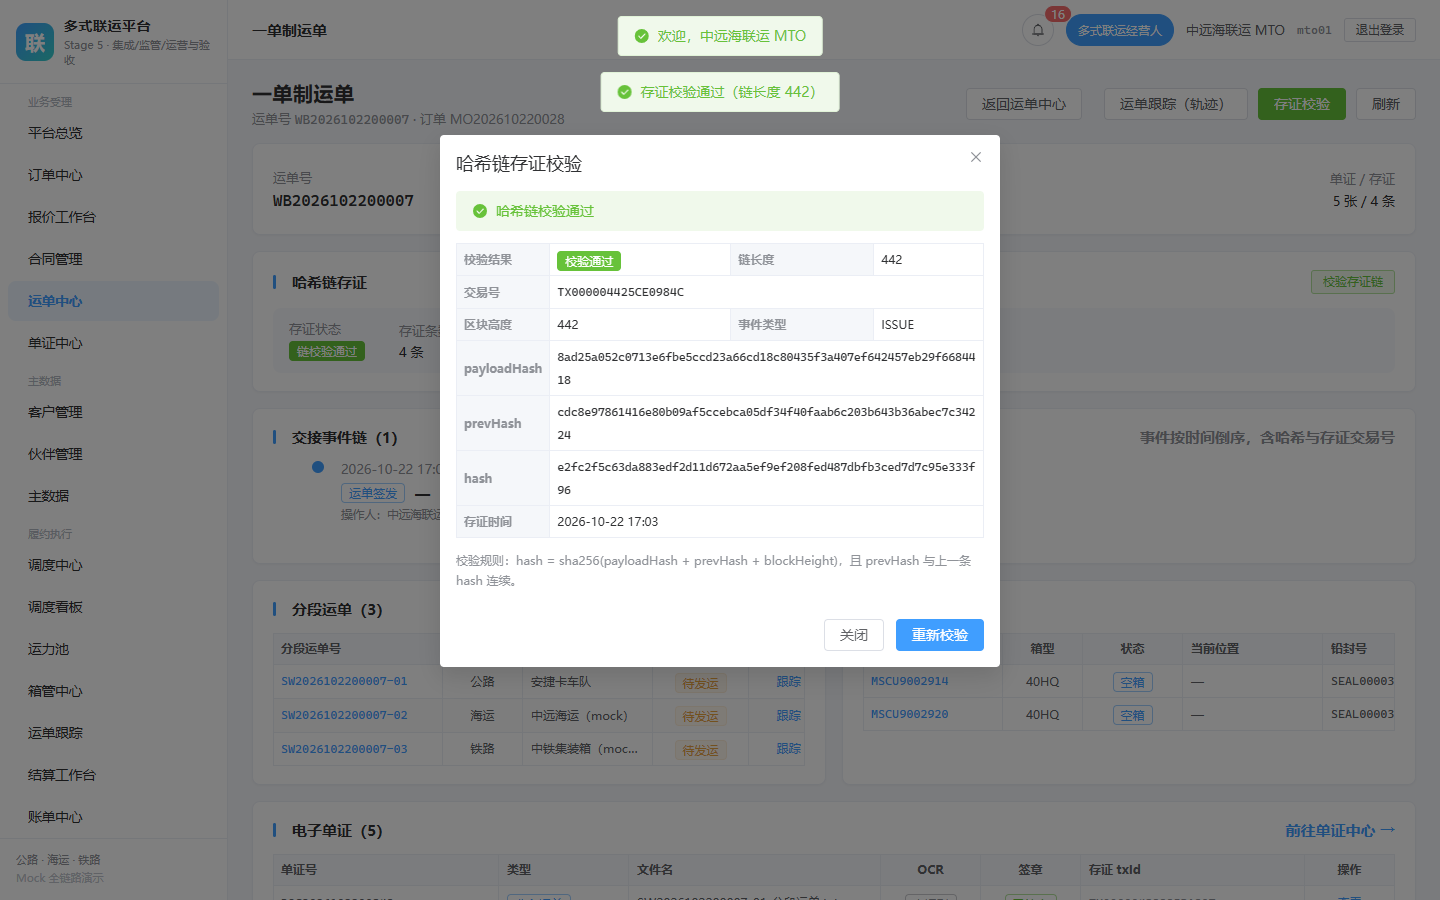
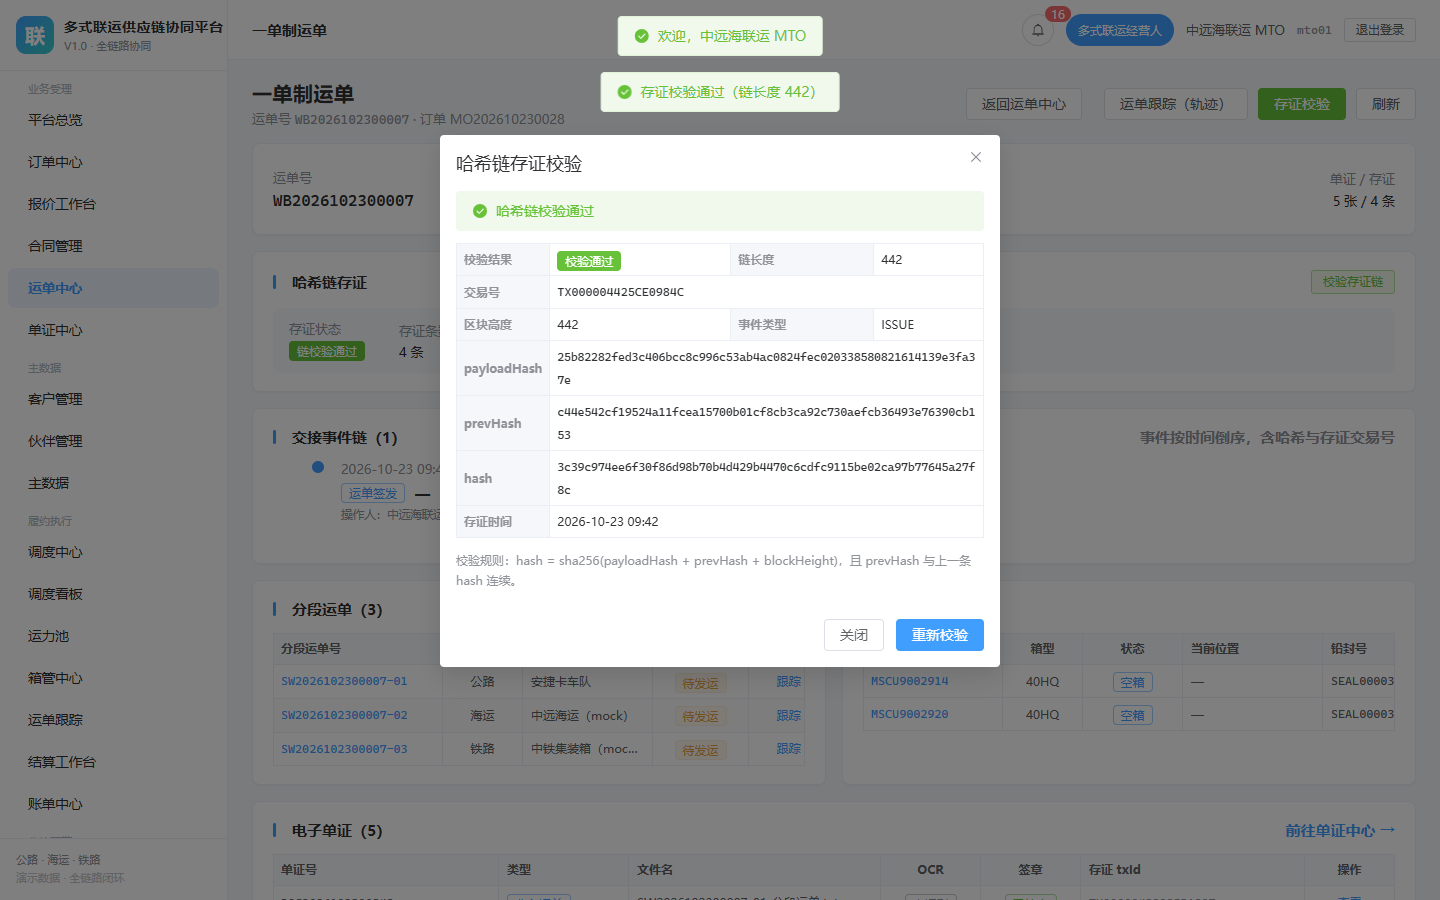
fix: 统一软著演示名称版本，修复箱号/税号数据质量并补充软著合规检查

diff --git a/web/src/layouts/MainLayout.vue b/web/src/layouts/MainLayout.vue
@@ -4,8 +4,8 @@
       <div class="brand">
         <div class="brand-logo">联</div>
         <div class="brand-text">
-          <div class="brand-name">多式联运平台</div>
-          <div class="brand-version">Stage 5 · 集成/监管/运营与验收</div>
+          <div class="brand-name">多式联运供应链协同平台</div>
+          <div class="brand-version">V1.0 · 全链路协同</div>
         </div>
       </div>
 
@@ -26,7 +26,7 @@
 
       <div class="aside-footer">
         <div class="aside-footer__line">公路 · 海运 · 铁路</div>
-        <div class="aside-footer__line subtle">Mock 全链路演示</div>
+        <div class="aside-footer__line subtle">演示数据 · 全链路闭环</div>
       </div>
     </el-aside>
 
@@ -123,7 +123,7 @@ const menuGroups = computed(() => {
 
 const unreadCount = computed(() => notifications.value.filter((item) => !isRead(item)).length);
 
-const pageTitle = computed(() => (typeof route.meta.title === 'string' ? route.meta.title : '多式联运平台'));
+const pageTitle = computed(() => (typeof route.meta.title === 'string' ? route.meta.title : '多式联运供应链协同平台'));
 
 const activeMenu = computed<string>(() => {
   const fullPath = route.fullPath;

diff --git a/web/src/views/LoginView.vue b/web/src/views/LoginView.vue
@@ -3,8 +3,8 @@
     <div class="login-panel">
       <section class="login-brand">
         <div class="login-brand__logo">联</div>
-        <h1 class="login-brand__title">多式联运供应链平台</h1>
-        <p class="login-brand__subtitle">Stage 2 · 询价 → 合同 → 一单制运单 → 箱管 → 签收 → 单证存证</p>
+        <h1 class="login-brand__title">多式联运供应链协同平台</h1>
+        <p class="login-brand__subtitle">V1.0 · 一单到底 · 全程可视 · 一次结算</p>
 
         <div class="demo-title">演示账号（密码统一 demo123，点击一键登录）</div>
         <div class="demo-list">

diff --git a/web/index.html b/web/index.html
@@ -3,7 +3,7 @@
   <head>
     <meta charset="UTF-8" />
     <meta name="viewport" content="width=device-width, initial-scale=1.0" />
-    <title>多式联运供应链平台 Demo</title>
+    <title>多式联运供应链协同平台 V1.0</title>
   </head>
   <body>
     <div id="app"></div>

diff --git a/docs/05-软著合规检查.md b/docs/05-软著合规检查.md
@@ -1,0 +1,201 @@
+# 软著适配检查报告（软著演示版）
+
+> 检查日期：2026-10-23
+> 项目定位：**软件著作权（软著）演示 + 登记材料准备**
+> 依据：中国版权保护中心《计算机软件著作权登记申请表填写说明》及《计算机软件著作权登记办法》
+> 检查对象：多式联运供应链协同平台 V1.0（59 表 / 12 角色 / 215 项 API 断言 / 38 阶段 E2E）
+
+---
+
+## 1. 结论（先看这里）
+
+| 维度 | 结论 |
+|---|---|
+| **代码与演示** | ✅ 达到“可运行、可演示、业务闭环基本完整”的软著 demo 水平 |
+| **Mock 数据专业性** | ✅ 已修复箱号/税号等硬伤；⚠ 仍有真实企业品牌与少量合成字段需处理 |
+| **软件名称/版本一致性** | ✅ 本轮已统一为「多式联运供应链协同平台 V1.0」（UI/登录/标题/package/截图） |
+| **软著登记材料** | ❌ **尚未达到可直接提交状态**：缺少 60 页源程序文档、正式用户操作手册（含截图）、申请表信息表与权属/发表状态确认 |
+| **能否直接申报** | ❌ 不能。补齐第 4 节材料后可提交，形式审查通过概率较高 |
+
+> 软著登记属于**形式审查**，审查重点是材料齐全、格式规范、名称版本一致、权属清晰，**不审查业务真实性、Mock 数据质量或功能深度**；本报告同时按用户“业务流程真实、Mock 数据专业”的额外要求做了业务/数据检查。
+
+---
+
+## 2. 软著制度核心要求（与本项目对应）
+
+依据中国版权保护中心《填表说明》：
+
+1. **软件名称**
+   - 申请材料中的软件全称应保持一致；
+   - 全称应简短明确、针对性强；简称与全称不得相同，无简称留空，不填“无”；
+   - 版本号建议 `V1.0` 或 `1.0`；**证书版本以申请表为准，提交材料页眉版本必须与申请表一致**。
+2. **软件鉴别材料（源程序）**
+   - 一般交存：源程序**连续前 30 页 + 连续后 30 页**；
+   - 整个程序不到 60 页的，提交整个源程序；
+   - 除特定情况外，**程序每页不少于 50 行**；
+   - 页眉需体现软件名称/版本号（与申请表一致）及页码。
+3. **文档鉴别材料**
+   - 提交任一种文档（用户手册/操作说明书/设计说明书）的**连续前 30 页 + 连续后 30 页**；
+   - 文档不到 60 页的提交整个文档；
+   - **文档每页不少于 30 行**（含截图页可适当调整，以受理要求为准）。
+4. **申请表信息**
+   - 开发完成日期、发表状态、开发方式、权利取得方式、权利范围；
+   - 硬件环境、软件环境、编程语言、**源程序量（行数）**；
+   - 开发目的、面向领域、主要功能、技术特点。
+5. **其他**
+   - 已发表软件需填写首次发表日期/地点；**公网仓库/公开演示可能构成“已发表”**，需如实选择或先转为私有；
+   - 合作/委托/任务开发需提交权属证明；申请材料需签章。
+
+参考：
+- [中国版权保护中心·填表说明](https://www.ccopyright.com/index.php?optionid=1081)
+- [计算机软件著作权登记办法（国家版权局）](https://www.ncac.gov.cn/xxfb/flfg/bmgz/202410/t20241015_869486.html)
+
+---
+
+## 3. 本项目对照检查结果
+
+### 3.1 名称与版本 ✅（本轮已整改）
+
+| 项目 | 当前值 |
+|---|---|
+| 软件全称（建议） | **多式联运供应链协同平台** |
+| 简称（可选） | 多式联运平台（如申请表填简称，材料需一致） |
+| 版本号 | **V1.0** |
+| UI 侧边栏 | 多式联运供应链协同平台 / V1.0 · 全链路协同 |
+| 登录页 | 多式联运供应链协同平台 / V1.0 · 一单到底 · 全程可视 · 一次结算 |
+| 浏览器标题 | 多式联运供应链协同平台 V1.0 |
+| package.json | version 1.0.0（内部依赖版本）；软著材料统一用 V1.0 |
+| 文档 | `docs/00~04` 已统一为多式联运供应链协同平台 V1.0 |
+
+> 注意：源程序文档/用户手册的**页眉**必须写“多式联运供应链协同平台 V1.0”，并与申请表完全一致。
+
+### 3.2 源程序材料 ❌ 未准备
+
+- 当前自有源码规模：**47,692 行 / 209 个文件**（`api/src`、`web/src`、`api/db`，含注释与空行；有效代码约 43,287 行）。
+- 按 50 行/页，源程序约 **950+ 页**；软著只需提交**前 30 页 + 后 30 页（共 60 页）**。
+- 当前缺少：
+  - 60 页源程序文档（页眉：软件名称+版本号+页码；等宽字体；连续代码）；
+  - 起始/结束代码范围界定（建议从 `api/src/app.ts` 起，至 `web/src/router/index.ts` 止，或按模块顺序）；
+  - 页眉、页码、每页 50 行的排版；
+  - 提交前排除 `.env`、`api/storage`、`node_modules`、`dist`、测试数据（仓库已忽略，但需确认材料中不出现）。
+
+### 3.3 文档材料 ❌ 未准备
+
+- 现有 `docs/01-演示脚本与验收.md` 是演示脚本，**不是正式用户操作手册**：
+  - 约 98 行，未嵌入截图，未按“每页 ≥30 行、页眉、页码”排版；
+  - 缺少软件安装/启动说明、账号说明、逐模块操作步骤、异常处理、界面截图（当前 8 张截图未插入文档）。
+- 软著需提交用户手册或设计说明书（二选一）；建议做**用户操作手册**，与演示路径一致，包含：
+  1. 封面（软件名称/版本/日期）+ 目录；
+  2. 运行环境与安装启动（2 条命令）；
+  3. 登录与 12 个角色说明；
+  4. 全链路操作步骤（下单→调度→运单→箱管→单证→签收→结算→对账/发票/支付→监管/运营）；
+  5. 每步界面截图与说明（使用 `docs/screenshots/` 8 张 + 登录/总览截图）；
+  6. 常见问题与数据重置。
+- 文档页眉同样需“多式联运供应链协同平台 V1.0”，每页 ≥30 行。
+
+### 3.4 Mock 数据专业性 ✅ 已修复主要硬伤
+
+本轮检查发现并修复：
+
+| 问题 | 修复前 | 修复后 |
+|---|---|---|
+| 集装箱号长度/校验位 | **26 个箱号全部为 12 位**（如 `MSCU70000012`），不符合 ISO 6346（应为 11 位） | 改为 6 位序列号生成，**26 个箱号全部通过 ISO 6346 校验** |
+| 发票税号 | 10 张发票购方税号为空、销方税号为无效校验位 | 购方使用客户 GB 32100 税号、销方生成合法税号；**10 张发票全部通过 GB 32100 校验** |
+| 种子数据质量校验 | 无 | `api/db/init.mjs` 增加自动校验：非法箱号/税号直接报错，避免材料中出现假标准 |
+| 统一社会信用代码 | 12 家客户均为合法 GB 32100 | 已复核通过 |
+
+其他 Mock 标准（已具备）：
+- UN/LOCODE/铁路车站电报码、`HT/BJ/MO/WB/SW/DOC/BL/FP/PAY/DZ/JG/BX` 单据编码；
+- 95306 需求车 JT/T 1351 语义、港口 CODECO/COARRI、9% 增值税、电子发票、银行回执、CA 签章、监管回执。
+
+**仍需注意**：
+- 种子中使用了真实企业/机构名称（中远海运、中国银行、人保财险、上港集团、中铁、上海交通委等）。软著审查通常不核查 Mock 数据，但公开演示/材料存在**商标与主体混淆风险**，建议在申报材料与公开演示前替换为虚构但专业的企业名称（如“远洋联运”“联合商业银行”“安泰保险”），或取得授权。
+- 手机号 `139000000xx`、车牌 `沪A·D1200` 为合成演示数据，属于可接受的 Mock，但建议在手册中说明“数据均为演示数据”。
+
+### 3.5 申请表信息（待填，建议值）
+
+| 字段 | 建议填写 |
+|---|---|
+| 软件全称 | 多式联运供应链协同平台 |
+| 简称 | 多式联运平台（或留空） |
+| 版本号 | V1.0 |
+| 开发完成日期 | 2026-10-23（按实际固定日期调整） |
+| 发表状态 | **需决策**：公开 Gitea 仓库可能构成“已发表”；若申报“未发表”，建议先将仓库转为私有并停止公网演示 |
+| 开发方式 | 单独开发（如实际为合作/委托，需相应协议） |
+| 权利取得方式 | 原始取得 |
+| 权利范围 | 全部权利 |
+| 硬件环境 | x64 PC，8GB+ 内存，100GB+ 磁盘 |
+| 软件环境 | Windows 10/11、Node.js 24、MySQL 8、Edge/Chrome |
+| 编程语言 | TypeScript、JavaScript、SQL、HTML/CSS |
+| 源程序量 | 47,692 行（api/src + web/src + api/db；可按实际统计口径调整） |
+| 开发目的/领域 | 多式联运供应链协同、运输与结算管理 |
+| 主要功能 | 报价合同、订单、智能调度、一单制运单、箱管、单证存证、签收、结算/对账/发票/支付/保理、监控预警、集成/监管/运营 |
+| 技术特点 | 前后端分离、模块化单体、JWT/RBAC、哈希链存证、Mock 适配器、ECharts 可视化 |
+
+### 3.6 权属与原创 ⚠ 需申请人确认
+
+- 代码为项目自有实现，未提交 `node_modules`/第三方源码；Vue、Element Plus、ECharts、Express 等为第三方开源依赖（MIT/Apache 等），**不应计入自有源程序材料**。
+- 若开发过程使用 AI 辅助/外包/合作，请按实际权属准备说明或协议；软著申请须承诺独立开发/权属清晰。
+- 建议在仓库保留 `LICENSE`/权属声明（非软著强制，但利于材料一致性）。
+
+### 3.7 可演示性 ✅
+
+- 2 条命令：`npm run setup` + `npm run dev`；
+- 59 表全量种子、12 账号（密码 `demo123`）；
+- 最新回归：**build 零错误、215/215 API 断言、38 阶段 E2E 全绿**（本轮修复后重新执行）；
+- 8 张最终截图已按新名称/版本重新生成。
+
+---
+
+## 4. 达到“可提交软著”还缺什么（清单）
+
+| 序号 | 材料/事项 | 状态 | 说明 |
+|---|---|---|---|
+| 1 | 软件名称/版本统一 | ✅ 已完成 | UI/文档/截图统一为「多式联运供应链协同平台 V1.0」 |
+| 2 | 源程序文档（60 页，前/后各 30 页，每页 ≥50 行，页眉） | ❌ 待生成 | 可脚本导出；需确认起始/结束代码范围 |
+| 3 | 用户操作手册（含截图，页眉/页码，每页 ≥30 行） | ❌ 待编写 | 建议 30~60 页，覆盖安装、登录、全链路、FAQ |
+| 4 | 申请表信息表 | ⚠ 部分 | 第 3.5 节已给建议值，需申请人确认 |
+| 5 | 发表状态决策 | ❌ 待定 | 公开仓库/演示是否构成已发表；申报前建议转私有或如实申报 |
+| 6 | 真实品牌替换 | ⚠ 建议 | 中远海运/中国银行/人保财险等真实主体 |
+| 7 | 权属证明/签章 | ❌ 待申请人 | 身份证明、合作/委托协议（如适用） |
+| 8 | 演示视频（非 CPCC 强制） | ⚠ 可选 | 代理/内部评审常要求，可录 3~5 分钟全链路 |
+
+---
+
+## 5. 业务与架构层面的软著演示适配
+
+软著登记**不要求**业务闭环完整，但用户要求“业务流程尽量真实”，因此补充结论（详见 `docs/04-架构对照检查.md`）：
+
+- 核心闭环 `下单→报价→合同→调度→公铁水运输→签收→计费→对账→发票→支付/保理` 已打通；
+- **P0 演示缺口**：末端配送分段、快速下单的联运组合选择、放箱与发车前状态约束；
+- 对软著登记无直接阻碍；若演示话术强调“门到门”，建议先补末端配送，避免演示与材料描述不一致。
+
+---
+
+## 6. 建议执行顺序
+
+1. **本周（申报前）**
+   - 确认软件全称/版本/开发完成日期/发表状态；
+   - 生成 60 页源程序文档（页眉+50 行/页）；
+   - 编写用户操作手册（含截图，页眉+页码）；
+   - 确认权属与签章。
+2. **材料一致性检查**
+   - 申请表、源程序页眉、手册页眉、截图 UI 的软件名称/版本必须完全一致；
+   - 截图使用最新 8 张（已按 V1.0 重新生成）。
+3. **可选增强**
+   - 真实品牌替换为虚构企业；
+   - 补末端配送与联运组合选择后再录演示视频；
+   - 仓库转私有或明确“已发表”日期。
+
+---
+
+## 7. 最终判定
+
+| 判定项 | 结果 |
+|---|---|
+| 是否具备软著 demo 的代码/功能/数据基础 | ✅ 具备 |
+| 是否达到“可直接提交软著”的标准 | ❌ **尚未**（缺源程序文档、用户手册、申请表/权属/发表状态） |
+| 补材料后预计能否通过形式审查 | ✅ 大概率可以（名称版本一致、源码充足、文档齐全即可） |
+| 是否建议先修业务 P0 再申报 | 软著不强制；若用于对外演示/验收，建议先修末端配送与联运组合 |
+
+> 说明：软著审查为形式审查，以上材料要求以中国版权保护中心及受理窗口最新要求为准；本报告不构成法律意见。

diff --git a/README.md b/README.md
@@ -1,4 +1,4 @@
-# 多式联运供应链平台 Demo（v1.0.0）
+# 多式联运供应链协同平台（V1.0，软著演示版）
 
 单 Web 端多角色协同的多式联运演示平台：以 MTO 为核心，拉通货主、货代、公路/铁路/水路承运人、港站、结算、金融、保险、监管与平台运营，
 全链路覆盖「**询价 → 报价 → 合同 → 订单 → 智能调度 → 一单制运单 → 公铁水履约 → 箱管/单证/存证 → 签收 → 应收应付 → 对账/发票/支付/保理 → 经营分析 → 集成/监管/运营**」。
@@ -149,6 +149,7 @@ npm run e2e:all        # Stage1~5 UI E2E：38 个阶段
 | `docs/02-接口契约.md` | 最终接口索引、错误码、核心状态机 |
 | `docs/03-验收报告.md` | 全链路验收报告、数据校验、Mock 边界 |
 | `docs/04-架构对照检查.md` | 与原始技术架构方案的对照、核心闭环核验、遗漏/过度开发审查与整改建议 |
+| `docs/05-软著合规检查.md` | 软著登记材料要求对照、名称/版本/数据整改、申报缺口与材料清单 |
 | `docs/screenshots/` | 8 张最终场景截图（调度、一单制、单证、大屏、结算、分析、集成、验收） |
 
 ---

diff --git a/docs/00-平台方案.md b/docs/00-平台方案.md
@@ -1,6 +1,7 @@
-# 多式联运供应链平台 · 最终方案
+# 多式联运供应链协同平台 · 最终方案
 
-> 版本：v1.0.0（五阶段平台化 Mock 演示全部交付）
+> 软件全称：多式联运供应链协同平台（简称：多式联运平台）
+> 版本：V1.0（软著演示版）
 > 形态：单 Web 端 + 模块化单体后端 + 本地 MySQL 8，全部外部系统 Mock
 > 启动：`npm run setup` → `npm run dev`（API:8080 / Web:5173）
 
@@ -136,6 +137,7 @@ multimodal-platform/
 - 验收报告：`docs/03-验收报告.md`（build、215 项 API 断言、38 阶段 E2E、全链路检查）。
 - 演示脚本：`docs/01-演示脚本与验收.md`。
 - 接口索引：`docs/02-接口契约.md`。
+- 架构对照：`docs/04-架构对照检查.md`；软著适配：`docs/05-软著合规检查.md`。
 - 截图：`docs/screenshots/`（8 张最终场景图）。
 
 ---

diff --git a/docs/01-演示脚本与验收.md b/docs/01-演示脚本与验收.md
@@ -1,4 +1,4 @@
-# 演示脚本与验收（v1.0.0 最终版）
+# 演示脚本与验收（多式联运供应链协同平台 V1.0）
 
 > 环境：`npm run setup` 已执行、`npm run dev` 已启动，浏览器打开 <http://127.0.0.1:5173>
 > 账号密码统一 `demo123`；详细账号能力见 `docs/00-平台方案.md`

diff --git a/docs/02-接口契约.md b/docs/02-接口契约.md
@@ -1,4 +1,4 @@
-# 接口契约（v1.0.0 最终版 · 索引）
+# 接口契约（多式联运供应链协同平台 V1.0 · 索引）
 
 > 统一前缀 `/api`；JSON camelCase；JWT（`Authorization: Bearer <token>`）。
 > 响应：`{ code: 0, message: "ok", data: ... }`；分页：`{ list, total, page, pageSize }`。

diff --git a/docs/04-架构对照检查.md b/docs/04-架构对照检查.md
@@ -1,4 +1,4 @@
-# 架构对照检查报告（原始技术架构方案 vs v1.0.0 最终代码）
+# 架构对照检查报告（原始技术架构方案 vs 多式联运供应链协同平台 V1.0）
 
 > 检查日期：2026-10-23
 > 对照基准：`多式联运供应链平台技术架构方案.md`（521 行，v1.0）

diff --git a/docs/03-验收报告.md b/docs/03-验收报告.md
@@ -1,4 +1,4 @@
-# 全链路验收报告（v1.0.0）
+# 全链路验收报告（多式联运供应链协同平台 V1.0）
 
 > 验收日期：2026-10-22
 > 环境：Windows 11 / Node v24.22.0 / MySQL 8.0.46（本机）/ 本机 Edge
